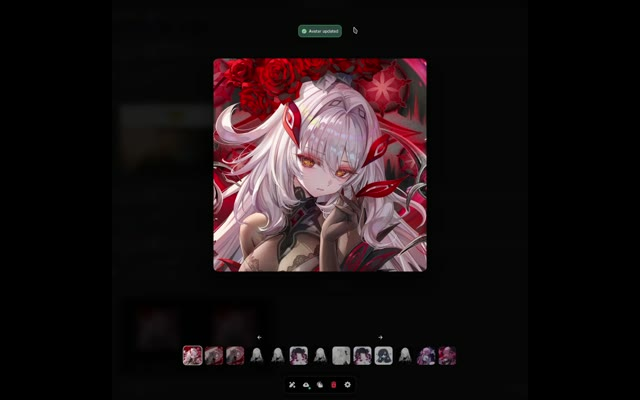
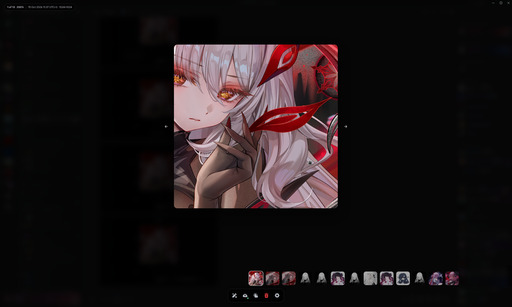
0.0.7: refresh the Preview screenshots
Swap in fresh captures for the lightbox, set-avatar and avatar-updated
frames and the zoom poster, add the "Setting avatar…" progress step and
the in-lightbox image menu (right-click) to the Preview, and note the
confirmation step and the centred rail.

diff --git a/README.md b/README.md
@@ -37,13 +37,18 @@ Vencord / Equicord userplugin that passively records avatar changes and lets you
 
 ![Profile section](docs/screenshots/profile-section.png)
 
-**Lightbox** — fullscreen viewer over the whole history: large preview, a "1 of N" counter, the record timestamp (UTC plus your local offset), the image size and the live zoom percentage on top, an action bar at the bottom (set as profile avatar, download, copy URL, delete, "More" menu), and a rail of all saved avatars below. The rail scrolls horizontally with no visible scrollbar; an edge fades out whenever thumbnails are cut off on that side:
+**Lightbox** — fullscreen viewer over the whole history: large preview, a "1 of N" counter, the record timestamp (UTC plus your local offset), the image size and the live zoom percentage on top, an action bar at the bottom (set as profile avatar, download, copy URL, delete, "More" menu), and a rail of all saved avatars below. The rail keeps the current avatar centred, scrolls horizontally with no visible scrollbar, and fades an edge whenever thumbnails are cut off on that side:
 
 ![Lightbox](docs/screenshots/lightbox.png)
 
-**Setting a saved avatar** — from the Lightbox you can apply any of your own stored avatars as your profile picture (toolbar button or image right-click menu; animated ones need Nitro). Discord confirms it with a green "Avatar updated" toast:
+**Image menu** — right-click the avatar inside the viewer for "Set as avatar", "Download", "Copy URL" and "Delete":
 
-![Setting Avatar — apply a stored avatar as your profile picture](docs/screenshots/set-avatar.jpg)
+![Image menu](docs/screenshots/image-menu.png)
+
+**Setting a saved avatar** — from the Lightbox you can apply any of your own stored avatars as your profile picture (toolbar button or image right-click menu; animated ones need Nitro). A confirmation asks first, the upload runs in place, and Discord confirms it with a green "Avatar updated" toast:
+
+![Setting Avatar — confirm applying a stored avatar](docs/screenshots/set-avatar.jpg)
+![Setting avatar — the upload runs in place](docs/screenshots/set-avatar-progress.jpg)
 ![Avatar updated — the green confirmation toast](docs/screenshots/avatar-updated.jpg)
 
 **Zoom** — the fullscreen viewer magnifies an avatar inside its frame with the mouse wheel or a double-click, and shows the current percentage in the info pill while zoomed:
@@ -211,13 +216,18 @@ refactor cannot break the rest of the plugin.
 
 ![Секция в профиле](docs/screenshots/profile-section.png)
 
-**Галерея (лайтбокс)** — полноэкранный просмотр всей истории: крупный аватар, счётчик «1 of N», дата записи (UTC + локальный часовой пояс), размер картинки и текущий процент зума сверху, панель действий снизу (поставить как аватар профиля для своей истории, скачивание, копия URL, удаление, меню «More») и лента всех сохранённых аватаров. Лента прокручивается по горизонтали без видимого скроллбара, а её край затемняется, если с этой стороны аватары обрезаны:
+**Галерея (лайтбокс)** — полноэкранный просмотр всей истории: крупный аватар, счётчик «1 of N», дата записи (UTC + локальный часовой пояс), размер картинки и текущий процент зума сверху, панель действий снизу (поставить как аватар профиля для своей истории, скачивание, копия URL, удаление, меню «More») и лента всех сохранённых аватаров. Лента держит текущий аватар по центру, прокручивается по горизонтали без видимого скроллбара и затемняет край, если с этой стороны аватары обрезаны:
 
 ![Лайтбокс](docs/screenshots/lightbox.png)
 
-**Установка сохранённого аватара** — прямо в лайтбоксе можно поставить любой из своих сохранённых аватаров как аватар профиля (кнопка на панели или ПКМ по картинке; для анимированных нужен Nitro). Discord подтверждает зелёным уведомлением «Avatar updated»:
+**Меню картинки** — ПКМ по аватару внутри просмотрщика: «Set as avatar», «Download», «Copy URL» и «Delete»:
 
-![Установка аватара — применить сохранённый аватар как аватар профиля](docs/screenshots/set-avatar.jpg)
+![Меню картинки](docs/screenshots/image-menu.png)
+
+**Установка сохранённого аватара** — прямо в лайтбоксе можно поставить любой из своих сохранённых аватаров как аватар профиля (кнопка на панели или ПКМ по картинке; для анимированных нужен Nitro). Сначала спрашивается подтверждение, загрузка идёт на месте, а Discord подтверждает зелёным уведомлением «Avatar updated»:
+
+![Установка аватара — подтверждение применения сохранённого аватара](docs/screenshots/set-avatar.jpg)
+![Установка аватара — загрузка идёт на месте](docs/screenshots/set-avatar-progress.jpg)
 ![Avatar updated — зелёное уведомление о подтверждении](docs/screenshots/avatar-updated.jpg)
 
 **Зум** — полноэкранный просмотрщик увеличивает аватар внутри рамки колесом мыши или двойным кликом, а пока зум включён, в инфо-пилле сверху виден текущий процент:
